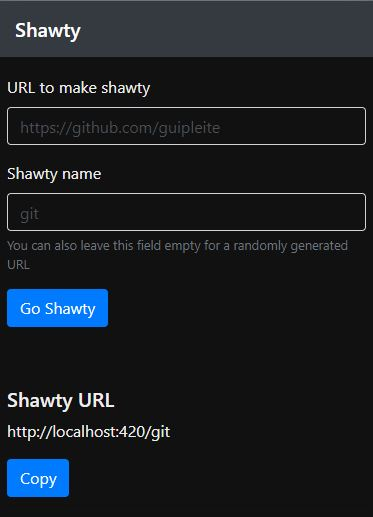
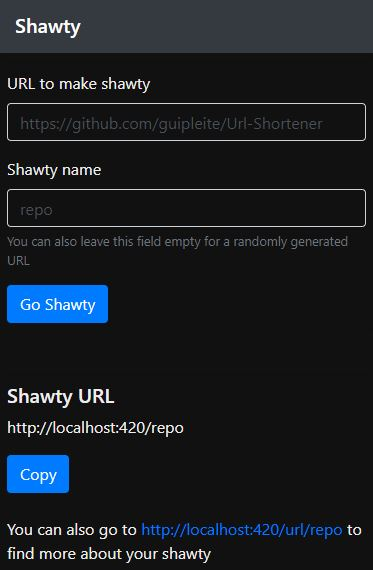
Adds links to the pages

diff --git a/public/app.js b/public/app.js
@@ -49,7 +49,30 @@ const app = new Vue({
             }
         },
 
+        showDataUrl(created){
+            const obj = JSON.stringify(created,null,2);
+            const data = JSON.parse(obj);
+
+            if (data.stack){
+                return {msg1: "",msg2:"",
+                url: ""};;
+            }
+            else{
+                data_alias = data.alias;
+                return {msg1: "You can also go to ",msg2:" to find more about your shawty",
+                        url: document.URL+"url/"+data_alias};
+            }
+        },
+
         showMetaData(created){
+            const obj = JSON.stringify(created,null,2);
+            const data = JSON.parse(obj);
+            data_alias = data.clicks;
+            return data_alias;
+
+        },
+
+         showMetaData(created){
             const obj = JSON.stringify(created,null,2);
             const data = JSON.parse(obj);
             data_alias = data.clicks;

diff --git a/public/index.html b/public/index.html
@@ -64,6 +64,9 @@
                     <span class="newUrl" id="newUrl">{{showData(created)}}</span>
                 </div>
                 <button type="submit"  class="btn btn-primary" >Copy</button>
+                <br>                <br>
+                <span class="newUrl" id="newUrlPlus">{{showDataUrl(created).msg1}}<a v-bind:href="showDataUrl(created).url">{{showDataUrl(created).url}}</a> {{showDataUrl(created).msg2}}</span>
+
             </form>
         </div>
 

diff --git a/views/url.html b/views/url.html
@@ -45,7 +45,7 @@
             <h3>Shawty URL</h3>
             <br>            <br>
 
-            <h4>Original URL: <a><h5> <%= content.url %></h5></a></h4>            <br>
+            <h4>Original URL: <h5><a href="<%= content.url %>"> <%= content.url %></a></h5></h4>            <br>
 
             <h4>Alias: <h5><a> <%= content.alias %></a></h5></h4>            <br>
 

diff --git a/README.md b/README.md
@@ -1,4 +1,6 @@
 # Url-Shortener
-Simple URL Shortener  built with Node.js, Vue and MongoDB
+Simple URL Shortener  built with Node.js, Vue and MongoDB.
+
+There are two main pages, the initial one where the shortened URLs are created and the second one that gives some information about the alias.
 
 <p align="center"><img src="./form.JPG" /> <img src="./urldata.JPG" /></p>
